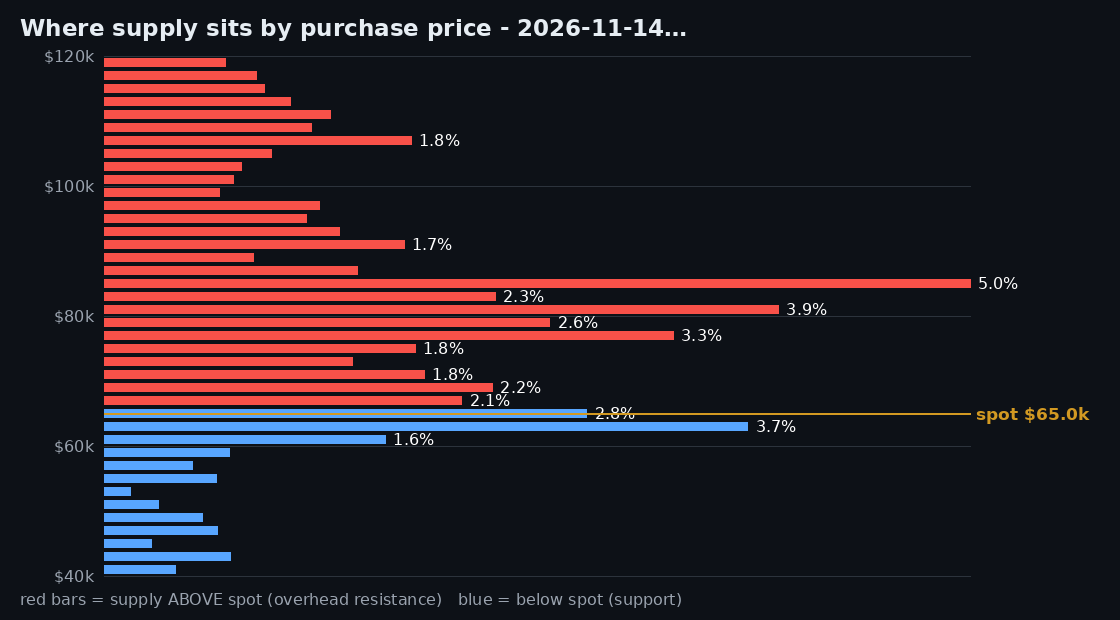
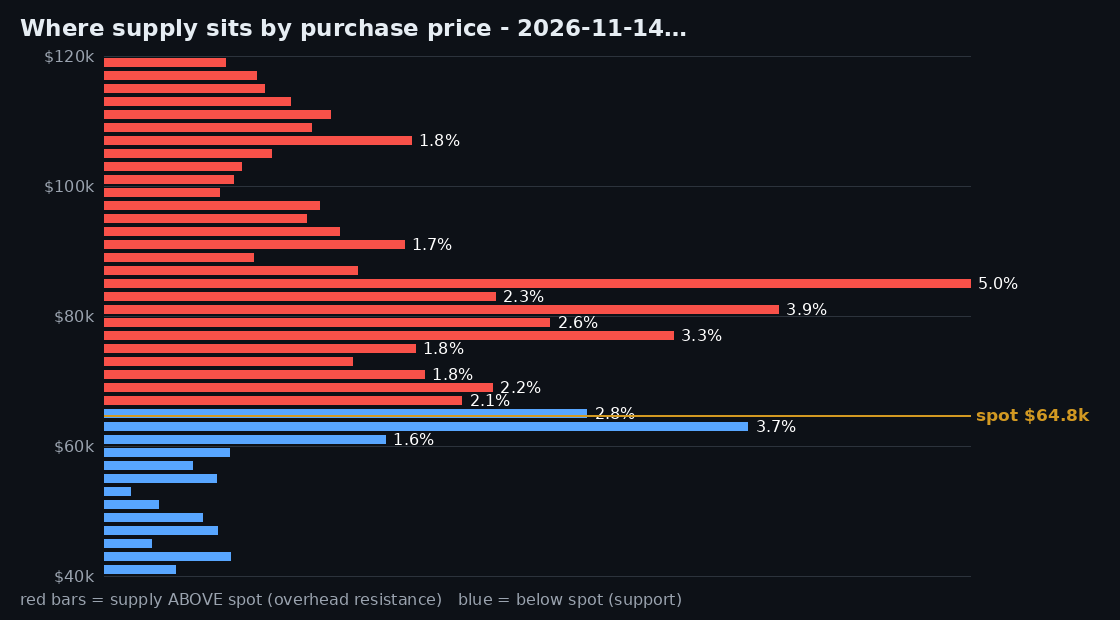
digest: 2026-11-16T00:42Z

Changed region(s): [[0.0938, 0.6435, 0.9688, 0.6742]]

diff --git a/index.html b/index.html
@@ -91,11 +91,11 @@ font-family:var(--mono);font-size:17px;font-weight:650;color:#e6edf3}
 </style></head><body><div class="wrap">
 <header>
   <h1>BTC Daily Digest</h1>
-  <div class="spotlbl">Bitcoin spot &middot; Coinbase<span class="upd">updated 2026-11-16 00:32 UTC</span></div>
-  <div class="spotpx">$64,969</div>
-  <div class="spotrow"><span><b>Binance</b>$65,000</span><span><b>Coinbase &minus; Binance</b>-31 (-0.05%)</span><span><b>USDT/USD</b>0.99948</span></div>
+  <div class="spotlbl">Bitcoin spot &middot; Coinbase<span class="upd">updated 2026-11-16 00:42 UTC</span></div>
+  <div class="spotpx">$64,751</div>
+  <div class="spotrow"><span><b>Binance</b>$64,780</span><span><b>Coinbase &minus; Binance</b>-29 (-0.04%)</span><span><b>USDT/USD</b>0.99942</span></div>
   <div class="verdict-card">VERDICT: US bid ABSENT - premium negative, 30d mean at lows</div>
-  <div class="kpis"><div class="kpi"><span class="k">ETF flows</span><span class="v neg">-$2,245.3M</span><span class="d neg">5d -$769.5M</span><span class="n">US spot ETFs, 30-day net</span></div><div class="kpi"><span class="k">US premium</span><span class="v neg">-0.048%</span><span class="d neg">72 days negative</span><span class="n">Coinbase vs Binance. 30d avg -0.140%</span></div><div class="kpi"><span class="k">Stablecoins</span><span class="v neg">$244.7B</span><span class="d neg">30d -$11.63B</span><span class="n">Capital leaving crypto, not waiting</span></div><div class="kpi"><span class="k">RSI(14)</span><span class="v neg">24.5</span><span class="d neg">1y pctile 4%</span><span class="n">Oversold - capitulation zone</span></div><div class="kpi"><span class="k">Funding rate</span><span class="v warn">+7.4%</span><span class="d warn">30d avg, annualised</span><span class="n">Longs pay shorts - crowded longs</span></div><div class="kpi"><span class="k">Perp open interest</span><span class="v neg">$6.11bn</span><span class="d neg">1d -0.17bn</span><span class="n">Deleveraging, not new shorts</span></div><div class="kpi"><span class="k">Long/short ratio</span><span class="v ">3.05</span><span class="d ">30d 1.02-3.23 · 83th pctile</span><span class="n">Neutral 2.34 · mid-range 1.75-3.07 - no crowding signal</span></div><div class="kpi"><span class="k">Fear &amp; Greed</span><span class="v neg">10</span><span class="d neg">Extreme Fear</span><span class="n">Capitulation - bounce fuel up, bad to short</span></div></div>
+  <div class="kpis"><div class="kpi"><span class="k">ETF flows</span><span class="v neg">-$2,245.3M</span><span class="d neg">5d -$769.5M</span><span class="n">US spot ETFs, 30-day net</span></div><div class="kpi"><span class="k">US premium</span><span class="v neg">-0.046%</span><span class="d neg">72 days negative</span><span class="n">Coinbase vs Binance. 30d avg -0.140%</span></div><div class="kpi"><span class="k">Stablecoins</span><span class="v neg">$244.7B</span><span class="d neg">30d -$11.63B</span><span class="n">Capital leaving crypto, not waiting</span></div><div class="kpi"><span class="k">RSI(14)</span><span class="v neg">24.5</span><span class="d neg">1y pctile 4%</span><span class="n">Oversold - capitulation zone</span></div><div class="kpi"><span class="k">Funding rate</span><span class="v warn">+7.4%</span><span class="d warn">30d avg, annualised</span><span class="n">Longs pay shorts - crowded longs</span></div><div class="kpi"><span class="k">Perp open interest</span><span class="v neg">$6.11bn</span><span class="d neg">1d -0.17bn</span><span class="n">Deleveraging, not new shorts</span></div><div class="kpi"><span class="k">Long/short ratio</span><span class="v ">3.05</span><span class="d ">30d 1.02-3.23 · 83th pctile</span><span class="n">Neutral 2.34 · mid-range 1.75-3.07 - no crowding signal</span></div><div class="kpi"><span class="k">Fear &amp; Greed</span><span class="v neg">10</span><span class="d neg">Extreme Fear</span><span class="n">Capitulation - bounce fuel up, bad to short</span></div></div>
   <nav class="tabs">
     <button class="on" data-t="dash">Dashboard</button>
     <button data-t="charts">Charts</button>
@@ -124,7 +124,7 @@ Colour is the stance, not the tone of the wording:
 <div class="card"><h3>[1] US spot BTC ETF net flow (T+1) - institutional demand</h3><pre>    latest 2026-11-15 +$0.0M   prev +$0.0M
     5d -$769.5M   10d -$1,477.5M   30d -$2,245.3M
 <span class="vline bear"><b class="stag">BEARISH</b>ETF money still leaving: -$2,245.3M over 30d.</span></pre></div>
-<div class="card"><h3>[2] Coinbase Premium Index - US vs global bid</h3><pre>    live -0.048%   last close -0.055% (prev -0.049%)
+<div class="card"><h3>[2] Coinbase Premium Index - US vs global bid</h3><pre>    live -0.046%   last close -0.055% (prev -0.049%)
     30d avg -0.140%   negative streak 72d   1y low -0.271%
 <span class="vline bear"><b class="stag">BEARISH</b>US still discounting to global for 72 straight days: US bid is the missing buyer.</span></pre></div>
 <div class="card"><h3>[3] Coinbase Premium net of Tether - 30d mean (regime)</h3><pre>    -0.014%  (prev -0.014%)   1y percentile 3%   streak 30d
@@ -133,11 +133,11 @@ Colour is the stance, not the tone of the wording:
     USDC $69.3B   1d +$0.08B   7d -$1.37B   30d -$3.55B
     USDT+USDC combined $244.7B   7d -$2.78B   30d -$11.63B
 <span class="vline bear"><b class="stag">BEARISH</b>Stablecoin supply contracting on both windows: capital is leaving crypto, not waiting in it.</span></pre></div>
-<div class="card"><h3>[5] Spot taker flow by venue - net aggressive buying</h3><pre>    Binance  1d +5m   7d -351m (-3.6% of vol)   30d +354m
+<div class="card"><h3>[5] Spot taker flow by venue - net aggressive buying</h3><pre>    Binance  1d -5m   7d -361m (-3.7% of vol)   30d +344m
     OKX      48h +32m (+1.5% of vol)   (OKX publishes 48h only)
-    Coinbase live -0.4 BTC (last 1000 trades = minutes; CONTEXT ONLY)
+    Coinbase live +0.7 BTC (last 1000 trades = minutes; CONTEXT ONLY)
     Bybit    n/a (publishes no taker split)
-<span class="vline bear"><b class="stag">BEARISH</b>Binance net SELLING (-3.6% of vol) while OKX is flat: the deepest book leads.</span>
+<span class="vline bear"><b class="stag">BEARISH</b>Binance net SELLING (-3.7% of vol) while OKX is flat: the deepest book leads.</span>
     Binance PERP CVD 5d -5,966 BTC | 30d +3,996 BTC</pre></div>
 <h3 class="sec">2. POSITIONING &amp; SENTIMENT - who is leveraged, and how they feel <span class="sbadge warn">MIXED - 2 caution</span></h3>
 <p class="sdesc">[6] long/short crowding, [7] funding &amp; basis (what leverage costs), [8] Fear &amp; Greed.</p>
@@ -145,32 +145,32 @@ Colour is the stance, not the tone of the wording:
 <div class="card"><h3>[6] Positioning - Binance futures long/short crowding (CONTRARIAN)</h3><pre>    all-acct L/S 3.05 (30d 1.02-3.23, median 2.34, crowd lines 1.75/3.07, pctile 83%) | top acct 3.47 (median 2.53, pctile 90%) | top pos 1.79 (median 1.85, pctile 40%)
     taker buy/sell 1.00 (prev 0.92) | OI $6.11bn (1d -0.17, 30d 6.11-8.24)
 <span class="vline flat"><b class="stag">NO SIGNAL</b>crowd mid-range (all-acct pctile 83): no crowding extreme; OI draining = deleveraging/liquidation, not new shorts.</span></pre></div>
-<div class="card"><h3>[7] Derivatives cost - funding rate &amp; perp basis</h3><pre>    funding now -0.0022% /8h  -&gt;  -2.4% annualised
+<div class="card"><h3>[7] Derivatives cost - funding rate &amp; perp basis</h3><pre>    funding now -0.0025% /8h  -&gt;  -2.7% annualised
     30d avg +0.0068% /8h  -&gt;  +7.4% annualised   (positive in 97% of periods)
-    perp basis -0.035%  (mark 64,992 vs index 65,015)
-    perp 24h vol $15.8bn   last 24h +1.89%
+    perp basis -0.053%  (mark 64,758 vs index 64,792)
+    perp 24h vol $15.8bn   last 24h +1.26%
 <span class="vline warn"><b class="stag">CAUTION</b>funding flipped negative: longs capitulating, shorts now paying to stay short.</span></pre></div>
 <div class="card"><h3>[8] Sentiment - Fear &amp; Greed index</h3><pre>    now 10 (Extreme Fear)   yesterday 10   30d range 10-68
     30d avg 38   (current = 6th percentile of the 30d window)
 <span class="vline warn"><b class="stag">CAUTION</b>EXTREME FEAR (pctile 7): crowd capitulating - contrarian-bullish for a BOUNCE, which is a warning against shorting into it, not a buy signal.</span></pre></div>
 <h3 class="sec">3. PRICE STRUCTURE - where supply sits <span class="sbadge bear">NET BEARISH - 1 bearish</span></h3>
 <p class="sdesc">Cost-basis clusters and valuation floors. Levels to lean on, not timing triggers.</p>
-<div class="card"><h3>[10] Valuation floors - how far is the downside (spot $64,969)</h3><pre>    Balanced Price $38,709 (2026-11-14)  -&gt; spot 1.68x
-    AVWAP since 2015-07-20 $29,938 (thru 2026-11-15)  -&gt; spot 2.17x
+<div class="card"><h3>[10] Valuation floors - how far is the downside (spot $64,751)</h3><pre>    Balanced Price $38,709 (2026-11-14)  -&gt; spot 1.67x
+    AVWAP since 2015-07-20 $29,938 (thru 2026-11-15)  -&gt; spot 2.16x
 <span class="vline bear"><b class="stag">BEARISH</b>Price is 1.7x the Balanced floor and 2.2x the all-time VWAP. Prior cycle bottoms converged to ~1.0x Balanced, so a full retest means roughly $38,709.</span></pre></div>
 <h3 class="sec">4. MOMENTUM - how it is moving <span class="sbadge warn">MIXED - 1 caution</span></h3>
 <p class="sdesc">[11] RSI reads force; [12] divergence reads exhaustion. They describe, they do not trigger.</p>
 <p class="sdesc">Divergence guide (what the four types mean, and the invalidators) is on the page.</p>
 <div class="card"><h3>[11] RSI - momentum on DAILY candles (Wilder) - settled thru 2026-11-15</h3><pre>    RSI(6) 18.8 | RSI(14) 24.5 | RSI(24) 30.7   (RSI14 1y percentile 4%)
-    same maths incl today&#x27;s forming candle (live $64,969): RSI(6) 18.2 | RSI(14) 24.1  &lt;- drifts until the close
+    same maths incl today&#x27;s forming candle (live $64,751): RSI(6) 17.8 | RSI(14) 23.8  &lt;- drifts until the close
 <span class="vline warn"><b class="stag">CAUTION</b>oversold &lt;30: capitulation zone, historically where bounces start; fast &lt; slow = momentum deteriorating, bounces are being sold into.</span></pre></div>
 <div class="card"><h3>[12] Divergence - 20d price low vs RSI14 (the only RSI signal with an edge)</h3><pre>    none - last 20d lows: 2026-11-05 75,969/RSI 38.6 -&gt; 2026-11-10 73,698/RSI 34.2
 <span class="watch">    watch (bullish): a NEW 20d CLOSE below 64,119 (last one 1d ago) - but only AFTER a bounce. The chart&#x27;s wick low is 61,946, but this trigger is CLOSE-basis - a wick down and back up does not count. A straight-down close lowers RSI14 too (would print ~22.7 vs 20.0 = no divergence), so it takes a RALLY THAT FAILS, not just a drop.</span>
 <span class="vline flat"><b class="stag">NO SIGNAL</b>no divergence active - nothing to act on</span></pre></div>
 <h3 class="sec">5. TRADING SIGNALS - what to actually do <span class="sbadge flat">NO SIGNAL - nothing directional</span></h3>
 <p class="sdesc">Only the actionable lines. One positive-EV setup exists: fade the bounce at MA200.</p>
-<div class="card"><h3>[13] Short-fade watch - fade the bounce at resistance (the only positive-EV side)</h3><pre>    MA200 72,921 | MA50 79,756 | MA10 71,816   -&gt; spot 64,969 is -10.9% vs MA200
-<span class="vline flat"><b class="stag">NO SIGNAL</b>NOT ARMED - RSI14 24.5, needs to cross 40 (+15 pts). MA200 72,921 is +12.2% from spot</span>
+<div class="card"><h3>[13] Short-fade watch - fade the bounce at resistance (the only positive-EV side)</h3><pre>    MA200 72,921 | MA50 79,756 | MA10 71,816   -&gt; spot 64,751 is -11.2% vs MA200
+<span class="vline flat"><b class="stag">NO SIGNAL</b>NOT ARMED - RSI14 24.5, needs to cross 40 (+15 pts). MA200 72,921 is +12.6% from spot</span>
     oversold now - the setup is a bounce that carries RSI14 to 40 near MA200, then rolls over. Fading at 65K is early: only 34% reach 70K first</pre></div>
 <h3 class="sec">LEGEND - what every block means</h3>
 <div class="card"><pre>  [1] ETF flow: institutional demand (read the 5d/30d sums, never one day)
@@ -198,7 +198,7 @@ Colour is the stance, not the tone of the wording:
 
 <section id="charts" class="tab">
 <p class="note">Every indicator the digest tracks, charted. Hover-free, static PNGs &mdash; they render anywhere.</p>
-<div class="cgrid"><div class="ccard wide"><h4>Cycle context - price vs Balanced Price and all-time anchored VWAP</h4><div class="cnow"><span class="chip">Balanced $38,709</span><span class="chip">spot 1.68x balanced</span><span class="chip">AVWAP $29,938</span><span class="chip">spot 2.17x AVWAP</span></div><img src="chart.png?v=97f0706da5" alt="BTC price, Balanced Price, anchored VWAP"><p class="cuse"><strong>How to use it:</strong> VWAP = volume-weighted average price: the average price BTC changed hands at, where a price that traded heavy volume counts for more than one that traded almost nothing. It answers &#x27;what did buyers actually pay?&#x27; AVWAP is the same sum anchored to a chosen start date - here 2015-07-20, Coinbase&#x27;s first BTC-USD candle - so it is the break-even of EVERY Coinbase buyer since the exchange opened. Above it, the average buyer is in profit; below it, underwater. Balanced Price is where past cycle BOTTOMS converged (~1.0x). Both are deep floors, not timing triggers - price can sit far above them for a long time, as it does now (2.2x AVWAP, 1.7x Balanced).</p><p class="cverdict">&rarr; Spot is 1.68x the Balanced floor and 2.17x the all-time VWAP. A full retest of the floor would be roughly $38,709.</p></div><div class="ccard wide"><h4>Price vs its 10, 50 and 200-day averages</h4><div class="cnow"><span class="chip">price now $64,969</span><span class="chip">10-day avg $71,816</span><span class="chip">50-day avg $79,756</span><span class="chip">200-day avg $72,921</span><span class="chip">10.9% below the 200-day</span></div><img src="c_price.png?v=56c6043077" alt="Price vs its 10, 50 and 200-day averages"><p class="cuse"><strong>How to use it:</strong> A moving average is simply the average closing price over the last N days, drawn as a line so the trend shows through the daily noise. The 10-day line is the last two weeks, the 50-day the last two months, the 200-day the last ten months. Rule of thumb: price above an average means that average is support, price below means it is resistance, and a bounce inside a downtrend usually stalls at the FIRST average overhead. The 200-day is the line the short-fade signal waits for.</p><p class="cverdict">&rarr; Price is BELOW all three averages, so anyone who bought in the last ten months is sitting on a loss and every rally runs into sellers trying to get out even. The 200-day average is at $72,921, 10.9% above today&#x27;s $64,969: that is the level a bounce has to reclaim before this is anything but a downtrend.</p></div><div class="ccard wide"><h4>Dollar strength - macro headwind or tailwind</h4><div class="cnow"><span class="chip">DXY now 103.2</span><span class="chip">+4.0% in 13 months</span><span class="chip">13-month range 96.2-103.2</span><span class="chip">BTC -43% same window</span><span class="chip">move-together -0.12</span></div><img src="c_dxy.png?v=e24ec3d924" alt="Dollar strength - macro headwind or tailwind"><p class="cuse"><strong>How to use it:</strong> DXY is the dollar measured against six major currencies. It is an INDEX, not a price: it was set to 100 when the basket started, so 103.2 means the dollar is a bit stronger than that starting point - the number only means something next to its own range, which is the 96.2-103.2 band in the chips above. Orange line = BTC price on the LEFT axis (in $, log scale). Blue line = DXY on the RIGHT axis. Each axis is zoomed to its own data, so the two lines&#x27; heights and steepness are NOT comparable - read direction, and use the percentages above to compare. Usual relationship: dollar up, BTC down. &#x27;Move-together&#x27; measures whether their DAILY changes went the same way: +1 = always together, -1 = always opposite, 0 = no link. Below about -0.3 is a real day-to-day link; -0.12 means almost none, so this is slow pressure, not a trigger. Rebuilt from ECB reference rates, so it can sit ~0.1-0.2% off the official ICE print.</p><p class="cverdict">&rarr; The dollar is at the highest level in the 13 months shown: 103.2 today against a low of 96.2 in the same stretch, so it has risen 4.0% while BTC has fallen 43%. A stronger dollar pulls money out of risk assets, so treat BTC rallies as fades while this holds.</p></div><div class="ccard"><h4>US vs global premium - is America paying up?</h4><div class="cnow"><span class="chip">right now -0.055%</span><span class="chip">30-day average -0.140%</span><span class="chip">below zero for 72 days straight</span></div><img src="c_premium.png?v=8a18dc4bf4" alt="US vs global premium - is America paying up?"><p class="cuse"><strong>How to use it:</strong> The premium is Coinbase&#x27;s BTC price minus Binance&#x27;s, in percent: it answers &#x27;are US buyers paying more or less than the rest of the world?&#x27;. Above zero = US demand is leading. A run of 20+ days below zero is not noise, it is a regime - the deepest pool of buyers is simply not there.</p><p class="cverdict">&rarr; US buyers have paid LESS than the rest of the world for 72 days in a row. That is the structural buyer - US institutions - simply absent, so there is no American bid to lift this market. A few days would be noise; 72 days is the regime, and it stays bearish until it flips back above zero.</p></div><div class="ccard"><h4>Momentum score (RSI) - how hard is it moving?</h4><div class="cnow"><span class="chip">momentum 24.5 out of 100</span><span class="chip">6-day reading 18.8</span><span class="chip">24-day reading 30.7</span><span class="chip">lower than 96% of the last year</span></div><img src="c_rsi.png?v=5c5ad32415" alt="Momentum score (RSI) - how hard is it moving?"><p class="cuse"><strong>How to use it:</strong> RSI (relative strength index) scores momentum 0-100 by comparing the size of average up-days with down-days. Below 30 = oversold, above 70 = overbought. Three speeds are drawn: 6-day (fast), 14-day (middle) and 24-day (slow). Fast above slow = momentum improving; fast BELOW slow = momentum deteriorating and bounces are being sold into. This describes force - it does not trigger a trade on its own.</p><p class="cverdict">&rarr; Momentum scores 24.5 out of 100, which is oversold - below 30 out of 100, the zone where bounces have historically started. The fast 6-day reading (18.8) is still weaker than the slow 24-day (30.7), so selling pressure is still building rather than easing - rallies are being sold. Oversold means do not chase a short into fresh lows; it is not a buy signal either.</p></div><div class="ccard"><h4>Where supply sits by purchase price</h4><div class="cnow"><span class="chip">biggest cluster $84k-$86k = 5.0% of all coins</span><span class="chip">45.2% of coins were bought ABOVE today&#x27;s price</span><span class="chip">10.3% were bought BELOW it</span></div><img src="c_urpd.png?v=ba9c6f67de" alt="Where supply sits by purchase price"><p class="cuse"><strong>How to use it:</strong> Every bar is how much bitcoin last changed hands at that price - in other words, where holders&#x27; purchase prices sit. Bars ABOVE today&#x27;s price are holders sitting on a loss: they sell into rallies to get out even and cap them. Bars BELOW are holders in profit, who tend to sit still. The amber line is today&#x27;s price.</p><p class="cverdict">&rarr; Only 10.3% of all coins were last bought below today&#x27;s price, while 45.2% were bought above it. So the market is mostly underwater: there is heavy overhead supply to chew through as trapped holders sell to break even, and very little bought-in-profit support underneath. Thin floor, thick ceiling.</p></div><div class="ccard"><h4>US spot ETF flows - are institutions buying?</h4><div class="cnow"><span class="chip">latest day not published yet</span><span class="chip">last 5 days -$0.77B</span><span class="chip">last 30 days -$2.25B</span></div><img src="c_etf.png?v=58d84b4c58" alt="US spot ETF flows - are institutions buying?"><p class="cuse"><strong>How to use it:</strong> US spot bitcoin ETFs are how most institutions buy. Green bars = money going in (new shares created), red bars = money coming out (shares redeemed). Read the SUMS, never a single day: one day is noise, the 30-day total is the trend. The amber line is the running total.</p><p class="cverdict">&rarr; Institutions are still selling: $2.25B has come out of the US spot ETFs over the last 30 days, and $0.77B of that in the last week alone. That is the single biggest buyer of 2024-25 going backwards, so there is nothing here to catch the falling price.</p></div><div class="ccard"><h4>Stablecoin supply - is cash waiting to buy?</h4><div class="cnow"><span class="chip">total stablecoin supply $244.7B</span><span class="chip">7-day change -$2.78B</span><span class="chip">30-day change -$11.63B</span></div><img src="c_stables.png?v=3d3f54752c" alt="Stablecoin supply - is cash waiting to buy?"><p class="cuse"><strong>How to use it:</strong> Stablecoins (USDT, USDC) are the cash pile of crypto - what you hold when you want out of bitcoin but stay inside the system. Growing supply = new fiat arriving, dry powder building. Shrinking supply = people redeeming for real dollars and leaving crypto altogether. It is NOT money parked on the sidelines waiting to buy - a shrinking pile means it is gone.</p><p class="cverdict">&rarr; Stablecoin supply is shrinking by $2.78B in a week and $11.63B in a month, down to $244.7B. Money is being redeemed and leaving crypto entirely, so there is no cash pile building up to buy this dip. That is the opposite of the setup that ends a downtrend.</p></div><div class="ccard"><h4>Funding rate - what it costs to hold a bet</h4><div class="cnow"><span class="chip">right now -0.0013% every 8 hours</span><span class="chip">30-day average +7.4% a year</span><span class="chip">positive in 97% of the last 30 days</span></div><img src="c_funding.png?v=c33930cd5c" alt="Funding rate - what it costs to hold a bet"><p class="cuse"><strong>How to use it:</strong> Funding is the small payment leveraged traders make to each other every 8 hours. Positive funding = LONGS pay shorts, meaning the crowd is leaning long and the long side is crowded (bearish tilt - dips get flushed out). Negative funding = SHORTS pay longs, meaning shorts are crowded and are squeeze fuel upward (hostile to a new short). The yearly figure just compounds the 8-hourly rate - three payments a day.</p><p class="cverdict">&rarr; Funding averages +7.4% a year and has been positive in 97% of the last 30 days: longs are paying to keep their bets open. That means the crowded long side has NOT given up yet, so there is still fuel for another flush lower. Funding only turns bullish for BTC once it goes negative and stays there - that is when the weak longs have actually been cleared.</p></div><div class="ccard"><h4>Long/short ratios - who is betting which way</h4><div class="cnow"><span class="chip">ordinary accounts 3.05 longs per short</span><span class="chip">big traders&#x27; accounts 3.47 longs per short</span><span class="chip">big traders&#x27; position size 1.79 longs per short</span><span class="chip">the crowd is near the top of its 30-day range</span></div><img src="c_ratios.png?v=69ce6e57df" alt="Long/short ratios - who is betting which way"><p class="cuse"><strong>How to use it:</strong> Each line counts how many long positions exist for every short on Binance futures. Above 1.00 = more longs. &#x27;Ordinary accounts&#x27; counts people, &#x27;big traders accounts&#x27; counts only the largest accounts, and &#x27;big traders position size&#x27; weights those big traders by how much money they have on rather than how many accounts they hold. Read all of it CONTRARIAN: a crowded long book is fuel for a squeeze DOWN, a crowded short book is fuel for a squeeze UP. When ordinary traders are long but big traders&#x27; money is shrinking, the informed side is handing risk to the crowd.</p><p class="cverdict">&rarr; The crowd is heavily long: ordinary accounts hold 3.05 longs for every short, which is near the top of its 30-day range. Crowded longs are fuel for a squeeze DOWN. Meanwhile big traders&#x27; position size is 1.79 (mid-range for the last 30 days), so the money is not adding to that long - the informed side is handing risk to the crowd. The pain trade is lower.</p></div><div class="ccard"><h4>Crowding score - all three ratios on one scale</h4><div class="cnow"><span class="chip">ordinary accounts 83 out of 100</span><span class="chip">big traders&#x27; accounts 90 out of 100</span><span class="chip">big traders&#x27; position size 40 out of 100</span></div><img src="c_ratio_pct.png?v=20d6b147a0" alt="Crowding score - all three ratios on one scale"><p class="cuse"><strong>How to use it:</strong> The three ratios in the chart above each have a different &#x27;normal&#x27; level, so their raw numbers cannot be compared with each other. Here each one is re-scored from 0 to 100 against its OWN last 30 days: 100 = the most long-heavy it has been in a month, 0 = the least. Above 85 = crowded long (bearish); below 15 = crowded short (squeeze fuel up).</p><p class="cverdict">&rarr; Ordinary accounts score 83 out of 100 while big traders&#x27; position size scores 40 - lots of small longs with big money not behind them. Retail is long, the money is not: that is the setup for a squeeze down.</p></div><div class="ccard"><h4>Open interest - how much leverage is in the system</h4><div class="cnow"><span class="chip">$6.11B of positions open</span><span class="chip">1-day change -$0.17B</span><span class="chip">30-day range $6.11B-$8.24B</span></div><img src="c_oi.png?v=49016f1687" alt="Open interest - how much leverage is in the system"><p class="cuse"><strong>How to use it:</strong> Open interest is the total value of leveraged perpetual positions still open - in plain terms, how much borrowed money is sitting in the market right now. RISING = new positions opening (fuel for the current move). FALLING = positions closing, usually forced liquidation, which is deleveraging and not new shorts being opened.</p><p class="cverdict">&rarr; Open positions fell $0.17B in a day to $6.11B. Positions being closed - usually forced - is deleveraging, not new money betting on lower prices. That kind of flush usually marks a short-term bounce rather than a fresh leg down, so this is not the place to chase a short.</p></div><div class="ccard"><h4>Volume - real trading vs leveraged betting</h4><div class="cnow"><span class="chip">real spot trading $0.1B a day</span><span class="chip">leveraged betting $0.2B a day</span><span class="chip">3.7x more leveraged than real</span></div><img src="c_volume.png?v=367a532621" alt="Volume - real trading vs leveraged betting"><p class="cuse"><strong>How to use it:</strong> Spot volume is coins actually bought and sold - delivery. Perpetual (perp) volume is leveraged bets on the price where nobody takes delivery. When perp dwarfs spot, price is being moved by borrowed money rather than by real demand, so moves are faster and fade quicker.</p><p class="cverdict">&rarr; For every $1 of real spot trading there is $3.7 of leveraged betting. Price is being set by borrowed money, not by people buying coins - expect fast moves that fade, liquidation wicks that overshoot, and fakeouts through levels. Size positions down in this regime.</p></div></div>
+<div class="cgrid"><div class="ccard wide"><h4>Cycle context - price vs Balanced Price and all-time anchored VWAP</h4><div class="cnow"><span class="chip">Balanced $38,709</span><span class="chip">spot 1.67x balanced</span><span class="chip">AVWAP $29,938</span><span class="chip">spot 2.16x AVWAP</span></div><img src="chart.png?v=97f0706da5" alt="BTC price, Balanced Price, anchored VWAP"><p class="cuse"><strong>How to use it:</strong> VWAP = volume-weighted average price: the average price BTC changed hands at, where a price that traded heavy volume counts for more than one that traded almost nothing. It answers &#x27;what did buyers actually pay?&#x27; AVWAP is the same sum anchored to a chosen start date - here 2015-07-20, Coinbase&#x27;s first BTC-USD candle - so it is the break-even of EVERY Coinbase buyer since the exchange opened. Above it, the average buyer is in profit; below it, underwater. Balanced Price is where past cycle BOTTOMS converged (~1.0x). Both are deep floors, not timing triggers - price can sit far above them for a long time, as it does now (2.2x AVWAP, 1.7x Balanced).</p><p class="cverdict">&rarr; Spot is 1.67x the Balanced floor and 2.16x the all-time VWAP. A full retest of the floor would be roughly $38,709.</p></div><div class="ccard wide"><h4>Price vs its 10, 50 and 200-day averages</h4><div class="cnow"><span class="chip">price now $64,751</span><span class="chip">10-day avg $71,816</span><span class="chip">50-day avg $79,756</span><span class="chip">200-day avg $72,921</span><span class="chip">11.2% below the 200-day</span></div><img src="c_price.png?v=56c6043077" alt="Price vs its 10, 50 and 200-day averages"><p class="cuse"><strong>How to use it:</strong> A moving average is simply the average closing price over the last N days, drawn as a line so the trend shows through the daily noise. The 10-day line is the last two weeks, the 50-day the last two months, the 200-day the last ten months. Rule of thumb: price above an average means that average is support, price below means it is resistance, and a bounce inside a downtrend usually stalls at the FIRST average overhead. The 200-day is the line the short-fade signal waits for.</p><p class="cverdict">&rarr; Price is BELOW all three averages, so anyone who bought in the last ten months is sitting on a loss and every rally runs into sellers trying to get out even. The 200-day average is at $72,921, 11.2% above today&#x27;s $64,751: that is the level a bounce has to reclaim before this is anything but a downtrend.</p></div><div class="ccard wide"><h4>Dollar strength - macro headwind or tailwind</h4><div class="cnow"><span class="chip">DXY now 103.2</span><span class="chip">+4.0% in 13 months</span><span class="chip">13-month range 96.2-103.2</span><span class="chip">BTC -43% same window</span><span class="chip">move-together -0.12</span></div><img src="c_dxy.png?v=e24ec3d924" alt="Dollar strength - macro headwind or tailwind"><p class="cuse"><strong>How to use it:</strong> DXY is the dollar measured against six major currencies. It is an INDEX, not a price: it was set to 100 when the basket started, so 103.2 means the dollar is a bit stronger than that starting point - the number only means something next to its own range, which is the 96.2-103.2 band in the chips above. Orange line = BTC price on the LEFT axis (in $, log scale). Blue line = DXY on the RIGHT axis. Each axis is zoomed to its own data, so the two lines&#x27; heights and steepness are NOT comparable - read direction, and use the percentages above to compare. Usual relationship: dollar up, BTC down. &#x27;Move-together&#x27; measures whether their DAILY changes went the same way: +1 = always together, -1 = always opposite, 0 = no link. Below about -0.3 is a real day-to-day link; -0.12 means almost none, so this is slow pressure, not a trigger. Rebuilt from ECB reference rates, so it can sit ~0.1-0.2% off the official ICE print.</p><p class="cverdict">&rarr; The dollar is at the highest level in the 13 months shown: 103.2 today against a low of 96.2 in the same stretch, so it has risen 4.0% while BTC has fallen 43%. A stronger dollar pulls money out of risk assets, so treat BTC rallies as fades while this holds.</p></div><div class="ccard"><h4>US vs global premium - is America paying up?</h4><div class="cnow"><span class="chip">right now -0.055%</span><span class="chip">30-day average -0.140%</span><span class="chip">below zero for 72 days straight</span></div><img src="c_premium.png?v=8a18dc4bf4" alt="US vs global premium - is America paying up?"><p class="cuse"><strong>How to use it:</strong> The premium is Coinbase&#x27;s BTC price minus Binance&#x27;s, in percent: it answers &#x27;are US buyers paying more or less than the rest of the world?&#x27;. Above zero = US demand is leading. A run of 20+ days below zero is not noise, it is a regime - the deepest pool of buyers is simply not there.</p><p class="cverdict">&rarr; US buyers have paid LESS than the rest of the world for 72 days in a row. That is the structural buyer - US institutions - simply absent, so there is no American bid to lift this market. A few days would be noise; 72 days is the regime, and it stays bearish until it flips back above zero.</p></div><div class="ccard"><h4>Momentum score (RSI) - how hard is it moving?</h4><div class="cnow"><span class="chip">momentum 24.5 out of 100</span><span class="chip">6-day reading 18.8</span><span class="chip">24-day reading 30.7</span><span class="chip">lower than 96% of the last year</span></div><img src="c_rsi.png?v=5c5ad32415" alt="Momentum score (RSI) - how hard is it moving?"><p class="cuse"><strong>How to use it:</strong> RSI (relative strength index) scores momentum 0-100 by comparing the size of average up-days with down-days. Below 30 = oversold, above 70 = overbought. Three speeds are drawn: 6-day (fast), 14-day (middle) and 24-day (slow). Fast above slow = momentum improving; fast BELOW slow = momentum deteriorating and bounces are being sold into. This describes force - it does not trigger a trade on its own.</p><p class="cverdict">&rarr; Momentum scores 24.5 out of 100, which is oversold - below 30 out of 100, the zone where bounces have historically started. The fast 6-day reading (18.8) is still weaker than the slow 24-day (30.7), so selling pressure is still building rather than easing - rallies are being sold. Oversold means do not chase a short into fresh lows; it is not a buy signal either.</p></div><div class="ccard"><h4>Where supply sits by purchase price</h4><div class="cnow"><span class="chip">biggest cluster $84k-$86k = 5.0% of all coins</span><span class="chip">45.2% of coins were bought ABOVE today&#x27;s price</span><span class="chip">10.3% were bought BELOW it</span></div><img src="c_urpd.png?v=99148aeda2" alt="Where supply sits by purchase price"><p class="cuse"><strong>How to use it:</strong> Every bar is how much bitcoin last changed hands at that price - in other words, where holders&#x27; purchase prices sit. Bars ABOVE today&#x27;s price are holders sitting on a loss: they sell into rallies to get out even and cap them. Bars BELOW are holders in profit, who tend to sit still. The amber line is today&#x27;s price.</p><p class="cverdict">&rarr; Only 10.3% of all coins were last bought below today&#x27;s price, while 45.2% were bought above it. So the market is mostly underwater: there is heavy overhead supply to chew through as trapped holders sell to break even, and very little bought-in-profit support underneath. Thin floor, thick ceiling.</p></div><div class="ccard"><h4>US spot ETF flows - are institutions buying?</h4><div class="cnow"><span class="chip">latest day not published yet</span><span class="chip">last 5 days -$0.77B</span><span class="chip">last 30 days -$2.25B</span></div><img src="c_etf.png?v=58d84b4c58" alt="US spot ETF flows - are institutions buying?"><p class="cuse"><strong>How to use it:</strong> US spot bitcoin ETFs are how most institutions buy. Green bars = money going in (new shares created), red bars = money coming out (shares redeemed). Read the SUMS, never a single day: one day is noise, the 30-day total is the trend. The amber line is the running total.</p><p class="cverdict">&rarr; Institutions are still selling: $2.25B has come out of the US spot ETFs over the last 30 days, and $0.77B of that in the last week alone. That is the single biggest buyer of 2024-25 going backwards, so there is nothing here to catch the falling price.</p></div><div class="ccard"><h4>Stablecoin supply - is cash waiting to buy?</h4><div class="cnow"><span class="chip">total stablecoin supply $244.7B</span><span class="chip">7-day change -$2.78B</span><span class="chip">30-day change -$11.63B</span></div><img src="c_stables.png?v=3d3f54752c" alt="Stablecoin supply - is cash waiting to buy?"><p class="cuse"><strong>How to use it:</strong> Stablecoins (USDT, USDC) are the cash pile of crypto - what you hold when you want out of bitcoin but stay inside the system. Growing supply = new fiat arriving, dry powder building. Shrinking supply = people redeeming for real dollars and leaving crypto altogether. It is NOT money parked on the sidelines waiting to buy - a shrinking pile means it is gone.</p><p class="cverdict">&rarr; Stablecoin supply is shrinking by $2.78B in a week and $11.63B in a month, down to $244.7B. Money is being redeemed and leaving crypto entirely, so there is no cash pile building up to buy this dip. That is the opposite of the setup that ends a downtrend.</p></div><div class="ccard"><h4>Funding rate - what it costs to hold a bet</h4><div class="cnow"><span class="chip">right now -0.0013% every 8 hours</span><span class="chip">30-day average +7.4% a year</span><span class="chip">positive in 97% of the last 30 days</span></div><img src="c_funding.png?v=c33930cd5c" alt="Funding rate - what it costs to hold a bet"><p class="cuse"><strong>How to use it:</strong> Funding is the small payment leveraged traders make to each other every 8 hours. Positive funding = LONGS pay shorts, meaning the crowd is leaning long and the long side is crowded (bearish tilt - dips get flushed out). Negative funding = SHORTS pay longs, meaning shorts are crowded and are squeeze fuel upward (hostile to a new short). The yearly figure just compounds the 8-hourly rate - three payments a day.</p><p class="cverdict">&rarr; Funding averages +7.4% a year and has been positive in 97% of the last 30 days: longs are paying to keep their bets open. That means the crowded long side has NOT given up yet, so there is still fuel for another flush lower. Funding only turns bullish for BTC once it goes negative and stays there - that is when the weak longs have actually been cleared.</p></div><div class="ccard"><h4>Long/short ratios - who is betting which way</h4><div class="cnow"><span class="chip">ordinary accounts 3.05 longs per short</span><span class="chip">big traders&#x27; accounts 3.47 longs per short</span><span class="chip">big traders&#x27; position size 1.79 longs per short</span><span class="chip">the crowd is near the top of its 30-day range</span></div><img src="c_ratios.png?v=69ce6e57df" alt="Long/short ratios - who is betting which way"><p class="cuse"><strong>How to use it:</strong> Each line counts how many long positions exist for every short on Binance futures. Above 1.00 = more longs. &#x27;Ordinary accounts&#x27; counts people, &#x27;big traders accounts&#x27; counts only the largest accounts, and &#x27;big traders position size&#x27; weights those big traders by how much money they have on rather than how many accounts they hold. Read all of it CONTRARIAN: a crowded long book is fuel for a squeeze DOWN, a crowded short book is fuel for a squeeze UP. When ordinary traders are long but big traders&#x27; money is shrinking, the informed side is handing risk to the crowd.</p><p class="cverdict">&rarr; The crowd is heavily long: ordinary accounts hold 3.05 longs for every short, which is near the top of its 30-day range. Crowded longs are fuel for a squeeze DOWN. Meanwhile big traders&#x27; position size is 1.79 (mid-range for the last 30 days), so the money is not adding to that long - the informed side is handing risk to the crowd. The pain trade is lower.</p></div><div class="ccard"><h4>Crowding score - all three ratios on one scale</h4><div class="cnow"><span class="chip">ordinary accounts 83 out of 100</span><span class="chip">big traders&#x27; accounts 90 out of 100</span><span class="chip">big traders&#x27; position size 40 out of 100</span></div><img src="c_ratio_pct.png?v=20d6b147a0" alt="Crowding score - all three ratios on one scale"><p class="cuse"><strong>How to use it:</strong> The three ratios in the chart above each have a different &#x27;normal&#x27; level, so their raw numbers cannot be compared with each other. Here each one is re-scored from 0 to 100 against its OWN last 30 days: 100 = the most long-heavy it has been in a month, 0 = the least. Above 85 = crowded long (bearish); below 15 = crowded short (squeeze fuel up).</p><p class="cverdict">&rarr; Ordinary accounts score 83 out of 100 while big traders&#x27; position size scores 40 - lots of small longs with big money not behind them. Retail is long, the money is not: that is the setup for a squeeze down.</p></div><div class="ccard"><h4>Open interest - how much leverage is in the system</h4><div class="cnow"><span class="chip">$6.11B of positions open</span><span class="chip">1-day change -$0.17B</span><span class="chip">30-day range $6.11B-$8.24B</span></div><img src="c_oi.png?v=49016f1687" alt="Open interest - how much leverage is in the system"><p class="cuse"><strong>How to use it:</strong> Open interest is the total value of leveraged perpetual positions still open - in plain terms, how much borrowed money is sitting in the market right now. RISING = new positions opening (fuel for the current move). FALLING = positions closing, usually forced liquidation, which is deleveraging and not new shorts being opened.</p><p class="cverdict">&rarr; Open positions fell $0.17B in a day to $6.11B. Positions being closed - usually forced - is deleveraging, not new money betting on lower prices. That kind of flush usually marks a short-term bounce rather than a fresh leg down, so this is not the place to chase a short.</p></div><div class="ccard"><h4>Volume - real trading vs leveraged betting</h4><div class="cnow"><span class="chip">real spot trading $0.1B a day</span><span class="chip">leveraged betting $0.3B a day</span><span class="chip">3.5x more leveraged than real</span></div><img src="c_volume.png?v=fbedebadc6" alt="Volume - real trading vs leveraged betting"><p class="cuse"><strong>How to use it:</strong> Spot volume is coins actually bought and sold - delivery. Perpetual (perp) volume is leveraged bets on the price where nobody takes delivery. When perp dwarfs spot, price is being moved by borrowed money rather than by real demand, so moves are faster and fade quicker.</p><p class="cverdict">&rarr; For every $1 of real spot trading there is $3.5 of leveraged betting. Price is being set by borrowed money, not by people buying coins - expect fast moves that fade, liquidation wicks that overshoot, and fakeouts through levels. Size positions down in this regime.</p></div></div>
 </section>
 
 <section id="ref" class="tab">
@@ -323,7 +323,7 @@ Colour is the stance, not the tone of the wording:
 <footer>
 <p>Generated automatically from keyless public APIs (Coinbase, Binance, DeFiLlama, cryptoetf.today, Look Into Bitcoin, BGeometrics, alternative.me). No credentials, no subscription feeds.</p>
 <p>Not financial advice. Backtest figures are historical and samples are small where noted.</p>
-<p>Last build: 2026-11-16 00:32 UTC</p>
+<p>Last build: 2026-11-16 00:42 UTC</p>
 </footer>
 <script>
 document.querySelectorAll('.tabs button').forEach(function(b){
